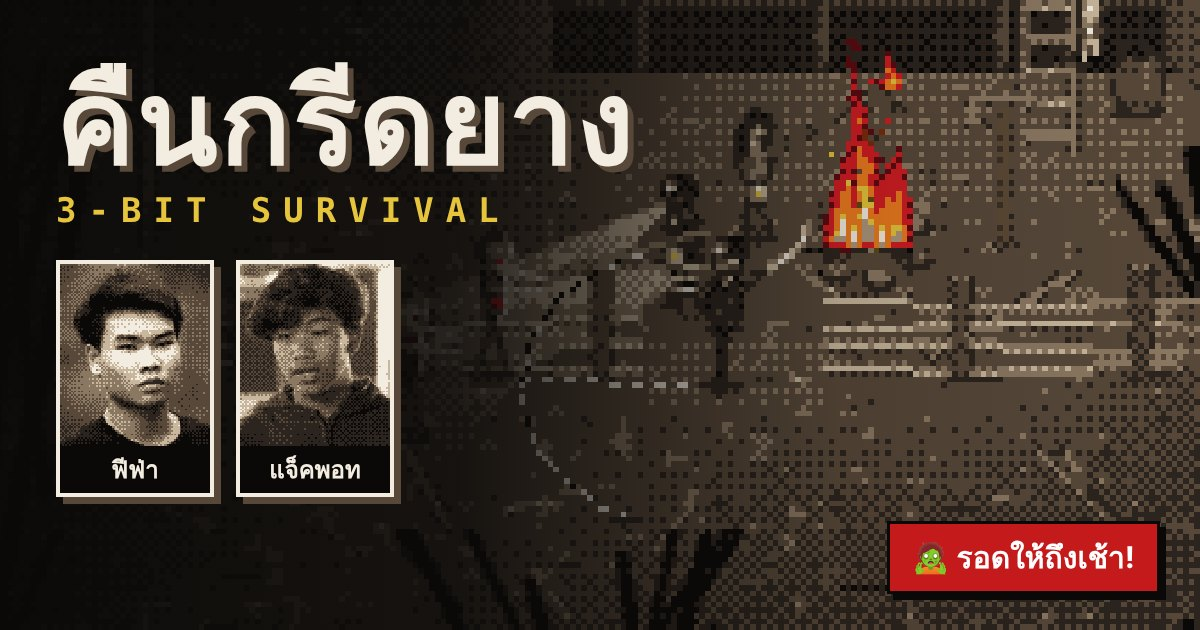
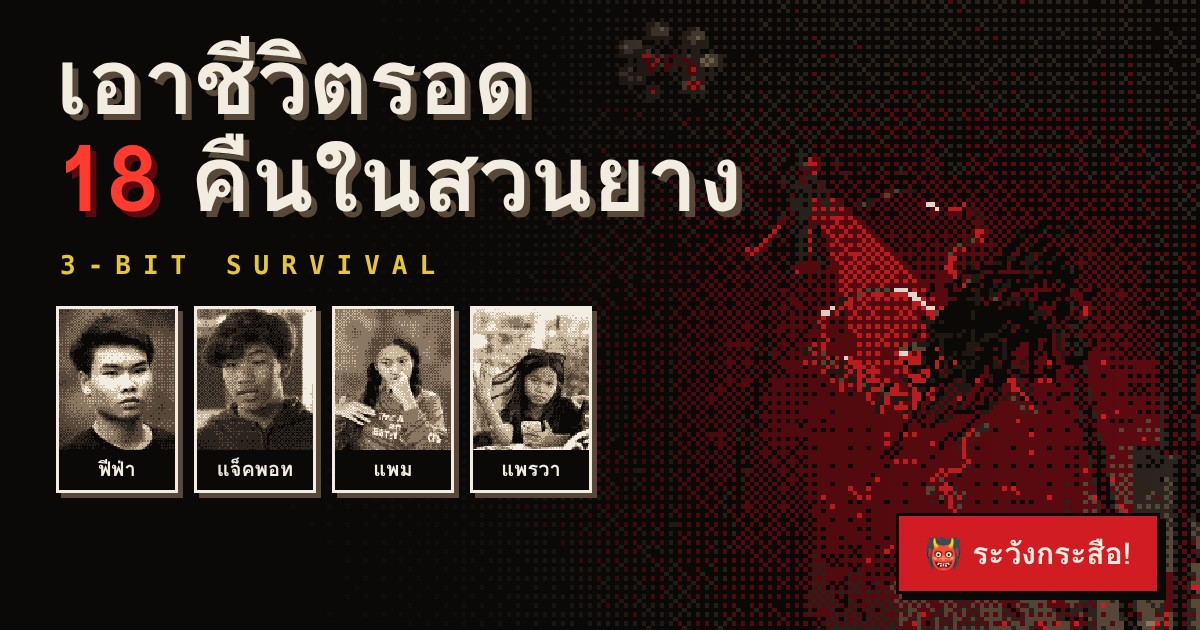
Rename to 'เอาชีวิตรอด 18 คืนในสวนยาง' with new cover
Claude-Session: https://claude.ai/code/session_01TGjZPENCM78abBhKF4Kcxp

diff --git a/index.html b/index.html
@@ -6,22 +6,22 @@
 <meta name="apple-mobile-web-app-capable" content="yes">
 <meta name="mobile-web-app-capable" content="yes">
 <meta name="apple-mobile-web-app-status-bar-style" content="black-translucent">
-<title>คืนกรีดยาง 3-BIT</title>
+<title>เอาชีวิตรอด 18 คืนในสวนยาง</title>
 <meta name="description" content="เอาชีวิตรอดคืนกรีดยางกลางสวนยางพารา ไฟคาดหัวดวงเดียว มีดกรีดยางเล่มเดียว ซอมบี้ทยอยมา ตีห้าระลอกใหญ่ — เลือกเล่นเป็นฟีฟ่าหรือแจ็คพอท">
 <meta property="og:type" content="website">
-<meta property="og:site_name" content="คืนกรีดยาง">
-<meta property="og:title" content="คืนกรีดยาง 3-BIT SURVIVAL">
+<meta property="og:site_name" content="เอาชีวิตรอด 18 คืนในสวนยาง">
+<meta property="og:title" content="เอาชีวิตรอด 18 คืนในสวนยาง — 3-BIT SURVIVAL">
 <meta property="og:description" content="เอาชีวิตรอดคืนกรีดยางกลางสวนยางพารา ไฟคาดหัวดวงเดียว มีดกรีดยางเล่มเดียว ซอมบี้ทยอยมา ตีห้าระลอกใหญ่ — เลือกเล่นเป็นฟีฟ่าหรือแจ็คพอท">
 <meta property="og:url" content="https://1818sibpadsibpad.github.io/kuen-krid-yang/">
-<meta property="og:image" content="https://1818sibpadsibpad.github.io/kuen-krid-yang/preview.jpg">
-<meta property="og:image:secure_url" content="https://1818sibpadsibpad.github.io/kuen-krid-yang/preview.jpg">
+<meta property="og:image" content="https://1818sibpadsibpad.github.io/kuen-krid-yang/preview.jpg?v=2">
+<meta property="og:image:secure_url" content="https://1818sibpadsibpad.github.io/kuen-krid-yang/preview.jpg?v=2">
 <meta property="og:image:type" content="image/jpeg">
 <meta property="og:image:width" content="1200">
 <meta property="og:image:height" content="630">
-<meta property="og:image:alt" content="คืนกรีดยาง — ฟีฟ่ากับแจ็คพอท กองไฟกลางสวนยาง">
+<meta property="og:image:alt" content="เอาชีวิตรอด 18 คืนในสวนยาง — ฟีฟ่า แจ็คพอท แพม แพรวา กับกระสือกลางสวนยาง">
 <meta name="twitter:card" content="summary_large_image">
-<meta name="twitter:title" content="คืนกรีดยาง 3-BIT SURVIVAL">
-<meta name="twitter:image" content="https://1818sibpadsibpad.github.io/kuen-krid-yang/preview.jpg">
+<meta name="twitter:title" content="เอาชีวิตรอด 18 คืนในสวนยาง — 3-BIT SURVIVAL">
+<meta name="twitter:image" content="https://1818sibpadsibpad.github.io/kuen-krid-yang/preview.jpg?v=2">
 <link rel="apple-touch-icon" href="preview.jpg">
 <style>
 html,body{position:fixed;inset:0;overscroll-behavior:none;margin:0;height:100%;background:#0a0908;overflow:hidden;touch-action:none;-webkit-user-select:none;user-select:none;-webkit-touch-callout:none;-webkit-tap-highlight-color:transparent}
@@ -71,7 +71,7 @@ hr{border:none;border-top:2px dashed #f3ece0;margin:10px 0}
 <div id="menu" class="ov">
   <div class="panel">
[1 lines of base64/hex data omitted]
-    <h1>คืนกรีดยาง</h1>
+    <h1 style="font-size:30px;line-height:1.25">เอาชีวิตรอด<br><span style="color:#ff3b30">18</span> คืนในสวนยาง</h1>
     <div class="sub">3-BIT SURVIVAL</div>
     <div class="sec warn"><h3>⚠ ต้องรู้ก่อนเล่น</h3><ul>
       <li>โดนซอมบี้กัด <b>ครั้งเดียว = ตาย</b></li>

diff --git a/README.md b/README.md
@@ -1,4 +1,4 @@
-# คืนกรีดยาง 3-BIT
+# เอาชีวิตรอด 18 คืนในสวนยาง (3-BIT)
 
 เกมเอาชีวิตรอดกลางคืนในสวนยางพารา ภาพ 3-bit มุมมองแบบ MOBA เล่นในเบราว์เซอร์ได้ทันที (ไฟล์เดียว `index.html`)
 
